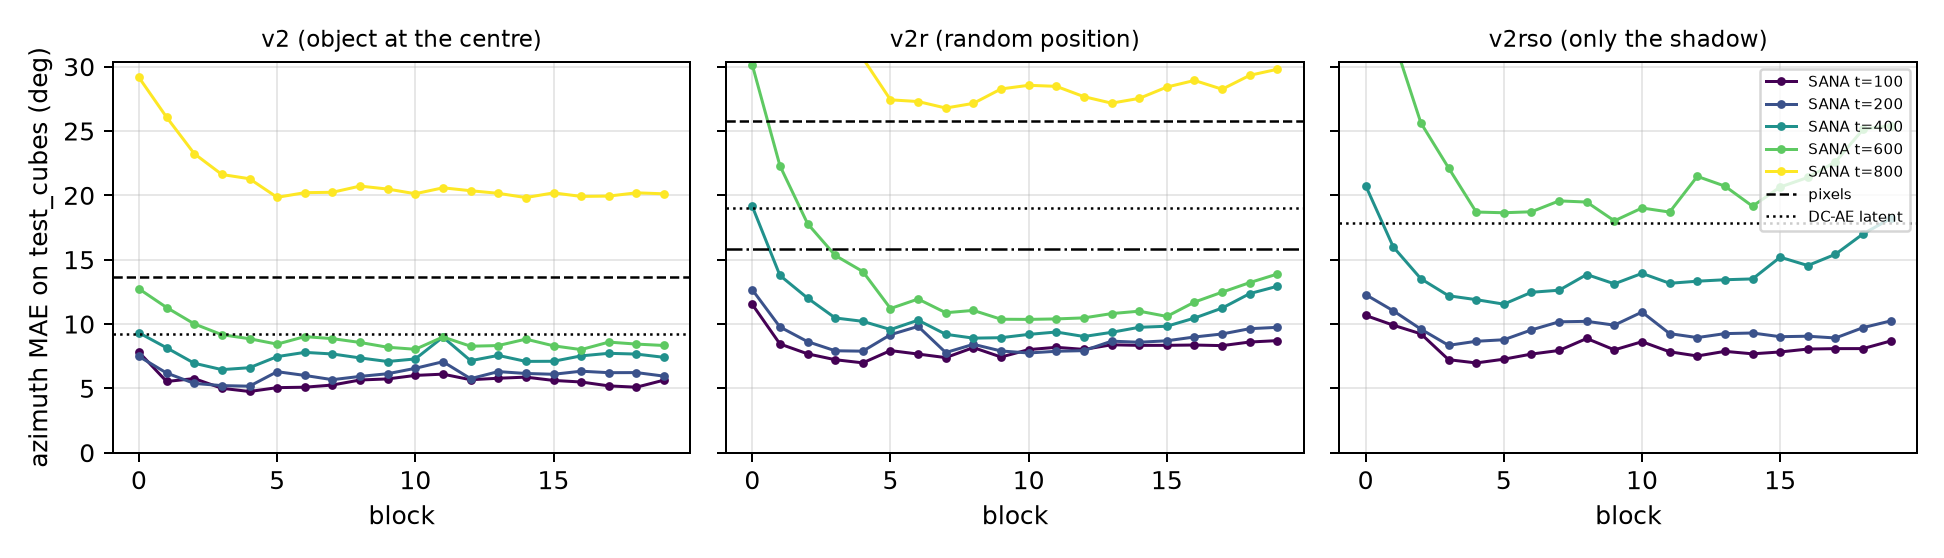
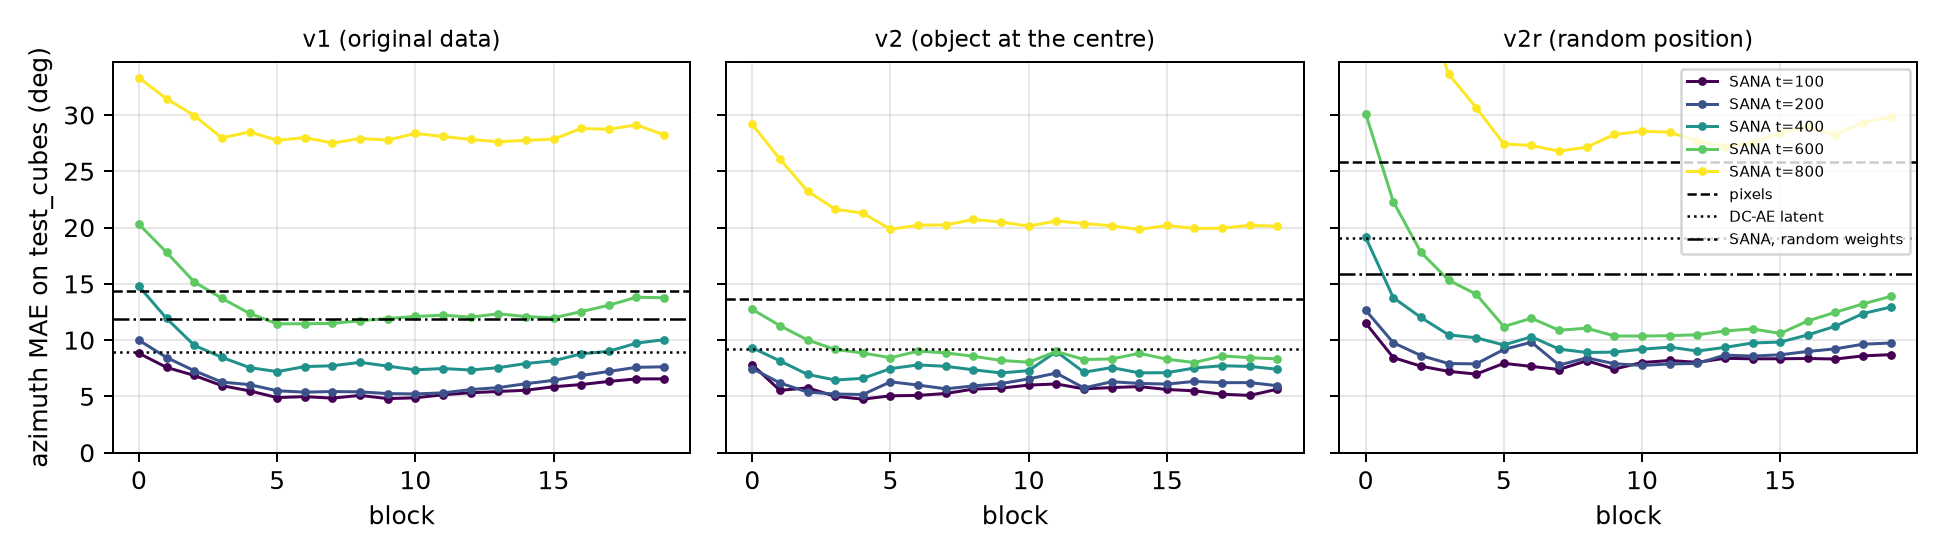
docs: rewrite the article with the final results and both measures of the output light

diff --git a/docs/article/main.tex b/docs/article/main.tex
@@ -15,7 +15,7 @@
 \newcommand{\pending}[1]{\textcolor{red}{[pending: #1]}}
 \newcommand{\degr}{^\circ}
 
-\title{Do Linear Probes Show That a Diffusion Transformer Knows the Light Direction? An Audit with Controls}
+\title{What Does a Diffusion Transformer Know about the Light Direction? An Audit of a Probe Study, with Controls and Interventions}
 
 \author{\name Anonymous Authors \email anonymous@example.com}
 
@@ -28,16 +28,15 @@
 
 \begin{abstract}
 Linear probes on the activations of generative models often serve as evidence that these models represent the 3D structure of a scene.
-We examine this evidence for one simple property, the direction of the light, in the text-to-image diffusion transformer SANA-1.6B.
-A first study with controlled Blender renders reported that a Ridge probe on transformer activations predicts the light azimuth with a mean absolute error (MAE) of $14\degr$, also on an object shape that the probe did not see in training.
-We audit this pipeline and find four problems.
-First, the same probe on raw $64\times64$ pixels gives the same error ($14.1\degr$ against $14.0\degr$).
-Second, the noise injection called a library function before its schedule was ready; for $t=200$ the transformer received $-24.5\,x_0 + 25.5\,\epsilon$ instead of $0.8\,x_0 + 0.2\,\epsilon$.
-Third, the label described the lamp position around the scene centre, which differs from the light direction at the object by $35\degr$ on average.
-Fourth, a large floor highlight under the lamp gives a cue that does not depend on the object.
-Probes on image regions show where the information is: the floor alone, without the object, predicts the label on cubes with an MAE of $9.4\degr$, better than the full image ($14.3\degr$), while the object alone fails on cubes ($44.3\degr$).
-We release an exact re-implementation of the render geometry, a corrected extraction pipeline, unit tests, and a fix for the library pitfall, which affects four schedulers.
-We close with a checklist for probe studies of generative models and with the plan for causal tests.
+We examine this evidence for one property, the light direction, in the text-to-image diffusion transformer SANA-1.6B.
+A first study reported that a probe predicts the light azimuth with a mean absolute error (MAE) of $14\degr$ on an unseen shape.
+Our audit finds four problems: the same probe on pixels is equally good; the noise injection called a library function before its schedule was ready, which gave the model inputs with 35 times the expected norm; the label was the lamp position and not the light at the object; and a floor highlight gave a 2D shortcut.
+With a corrected pipeline, the same data give $4.8\degr$, so the wrong noise hid the information.
+On new renders with one directional light and a random object position, where a linear read-out of the pixels fails, SANA gives $7.6\degr$ on unseen cubes, against $20.1\degr$ for the best pixel probe, $19.0\degr$ for the latent of the autoencoder and $15.9\degr$ for the same network with random weights; SD~1.5 and SDXL show the same effect.
+The code does not depend on the position: a probe on the mean of all tokens, fitted on centred objects, still gives $9.0\degr$ on objects at random positions.
+Interventions show that the model uses a direction of its activations: a small shift along the activation pattern of the light turns the shading of the object by $60\degr$ to $65\degr$ towards a target of $90\degr$, while a random shift of the same size does nothing.
+The cast shadow, however, follows only a three times larger shift, and a patch of the object tokens from a scene with another light changes the shading but not the shadow.
+We give a checklist for probe studies of generative models and release the code, the data and a fix for the library pitfall.
 \end{abstract}
 
 \section{Introduction}
@@ -57,12 +56,14 @@ It reported that a Ridge probe on block~10 at timestep $t=200$ predicts the lamp
 The study concluded that SANA encodes the light direction as a physical property of the scene.
 
 We re-examine every step of this pipeline: the render geometry, the labels, the noise injection, the probe fit and the figures.
+Then we ask the question again with corrected tools and new data.
 Our contributions are:
 \begin{enumerate}
-    \item An audit that finds four problems that each can explain the result without 3D knowledge (Section~\ref{sec:audit}).
-    \item Control probes on pixels and on image regions, which show that the floor of the image carries the information (Section~\ref{sec:controls}).
-    \item Tools: an exact model of the render geometry (to $0.56$~px), a corrected extraction pipeline with unit tests, and a fix with tests for a pitfall in the noise schedulers of a popular diffusion library (Section~\ref{sec:pipeline}).
-    \item A checklist for probe studies of generative models, and a pre-registered plan for causal tests with concept erasure and steering (Section~\ref{sec:discussion}).
+    \item An audit that finds four problems that each can explain the original result without 3D knowledge (Section~\ref{sec:audit}), and controls on the original data that show that the floor carries the information (Section~\ref{sec:controls}).
+    \item A corrected pipeline (Section~\ref{sec:pipeline}). On the original data it gives $4.8\degr$ on cubes instead of $14.5\degr$: the wrong noise, not the model, limited the original probe.
+    \item New data sets that remove the shortcuts and separate the cues (Section~\ref{sec:clean}), and probes with four controls on three diffusion models (Section~\ref{sec:rq1}). The light direction is linearly readable far beyond the input, from the shading and from the cast shadow, and with a code that does not depend on the position.
+    \item Interventions during generation with two independent measures of the output light (Section~\ref{sec:causal}). A shift along the activation pattern of the light changes the shading of the object; the cast shadow follows only larger shifts and does not come from the object tokens alone.
+    \item A checklist for probe studies of generative models (Section~\ref{sec:discussion}), an exact model of the render geometry, and a fix with tests for a pitfall in the noise schedulers of a popular diffusion library.
 \end{enumerate}
 
 \section{Related work}
@@ -250,7 +251,14 @@ The original noise rule gives inputs with 35 times the expected norm, which over
 \paragraph{Controls.}
 Each data set has the same probe on: the input pixels ($64\times64$); the DC-AE latent; SANA-1.6B with random weights \citep{adebayo2018sanity}; and, for generality, the UNets of Stable Diffusion 1.5 and SDXL with the noise rule of their own schedules.
 
-\pending{E0 on v1: probe sweep over 20 blocks and 5 timesteps with all controls; the original noise rule against the flow rule.}
+\paragraph{The original data with the corrected pipeline.}
+We repeat the original experiment on the same 3000 images and splits (Table~\ref{tab:rq1}, rows v1).
+With the original noise rule, the best SANA probe on the validation split (block~18, $t=200$) gives $12.4\degr$ on spheres and cylinders and $14.5\degr$ on cubes.
+This reproduces the original result ($14.0\degr$ on cubes), and it is $1.7\degr$ worse than the best pixel grid ($16\times16$: $9.6\degr$ and $12.8\degr$).
+With the flow rule, the best SANA probe (block~7, $t=100$) gives $4.1\degr$ and $4.8\degr$, which is $8.0\degr$ better than the pixels on cubes (95\% interval $[7.1, 8.9]$).
+The DC-AE latent gives $7.3\degr$ and $8.9\degr$, and SANA with random weights gives $11.5\degr$ and $11.9\degr$.
+Thus the original study did not fail because SANA lacks the information: the wrong noise hid it.
+The v1 images still have the floor highlight, so this result alone does not show a representation of the light at the object.
 
 \section{Clean data: one directional light and a controlled position}
 \label{sec:clean}
@@ -318,7 +326,8 @@ Table~\ref{tab:rq1} compares each source with the best pixel grid on the same te
 
 \paragraph{With a random position, diffusion features are much better than the input.}
 On v2r the SANA probe (block 5, $t=100$, $2\times2$ grid) has an azimuth MAE of $5.4\degr$ on spheres and cylinders and $7.6\degr$ on cubes.
-The DC-AE latent gives $18.8\degr$ and $19.0\degr$, and $64\times64$ pixels give $25.1\degr$ and $25.8\degr$.
+The best pixel grid ($8\times8$) gives $21.5\degr$ and $20.1\degr$, so SANA is better by $12.5\degr$ on cubes (95\% interval $[11.1, 13.8]$).
+The DC-AE latent gives $18.8\degr$ and $19.0\degr$.
 SD~1.5 ($7.5\degr$, $11.1\degr$) and SDXL ($5.9\degr$, $7.3\degr$) show the same effect, so it is not specific to one model.
 The SANA transformer with random weights is better than the latent at a low noise level ($11.9\degr$, $15.9\degr$), because random nonlinear features of the latent already help a linear probe.
 The trained model reduces this error by about half.
@@ -327,7 +336,7 @@ Figure~\ref{fig:scan} shows that the best blocks are early and middle blocks (4 
 \begin{figure}[t]
 \centering
 \includegraphics[width=\linewidth]{figures/scan.png}
-\caption{Azimuth MAE on the cubes for the SANA probe on each block ($4\times4$ grid), one line for each timestep. Horizontal lines: the controls at their selected settings.}
+\caption{Azimuth MAE on the cubes for the SANA probe on each block ($4\times4$ grid), one line for each timestep. Horizontal lines: the probe on $64\times64$ pixels and on the DC-AE latent. The third line is SANA with random weights, at its best setting on the validation split.}
 \label{fig:scan}
 \end{figure}
 
@@ -343,10 +352,14 @@ Thus the model has a direction code that is the same at every place in the image
 Without the cast shadow (v2rns), the SANA probe gives $6.9\degr$ and $9.9\degr$; the best pixel grid gives $24.6\degr$ and $23.3\degr$.
 With only the shadow (v2rso), SANA gives $5.9\degr$ and $7.9\degr$, against $24.6\degr$ and $16.9\degr$ for the pixels.
 So the model encodes the light from the shading of the object and from the cast shadow, each one alone.
-\pending{transfer between the cue variants}
+A probe fitted on v2r, where both cues are present, partly transfers to the scenes with one cue: SANA gives $33.3\degr$ without the shadow and $30.2\degr$ with only the shadow (pixels: $72.7\degr$ and $74.6\degr$).
+The two cues therefore share part of their code in the features, but not all of it.
 
 \paragraph{Where the probe reads.}
-The exact decomposition of the linear probe over the $8\times8$ cells (Section~\ref{sec:geometry} gives the object and shadow cells) shows that the SANA probe on v2r gives the object cells \pending{x}\% of its weight and the shadow cells \pending{y}\%, against an area share of \pending{a}\% and \pending{b}\%.
+The exact decomposition of the linear probe over the $8\times8$ cells gives the share of each cell in the output; the scene geometry gives the cells of the object and of its cast shadow.
+On v2r the SANA probe (block~10, $t=100$) gives $20\%$ of its weight to the object cells and $5.4\%$ to the shadow cells, against an area share of $14.5\%$ and $3.7\%$.
+The pixel probe on an $8\times8$ grid has almost the same shares ($19.6\%$ and $5.3\%$).
+So the maps do not separate the models: both probes give the object and the shadow about 1.4 times their area share and spread the rest over the floor.
 On v2rso, where the object is not visible, the cells of the hidden object still get $25\%$ of the weight (area $15\%$).
 These cells also hold the start of the shadow, so this does not show that the model represents the hidden object.
 
@@ -359,7 +372,11 @@ All three start from a render of v2.
 We encode the render, add flow noise up to $\sigma_0=0.7$, and integrate the flow back to $\sigma=0$ in 20 Euler steps, $x_{\sigma'}=x_\sigma+(\sigma'-\sigma)\,v_\theta(x_\sigma,\sigma)$ \citep{meng2022sdedit}.
 Without an intervention, this gives a close copy of the render (the base output).
 A forward hook on one transformer block changes its output at every step.
-A pixel probe, fitted on the v2 renders, measures the azimuth of each output, and we report the signed rotation against the base output of the same image and noise.
+We report the signed rotation of the output light against the base output of the same image and noise, with two measures.
+\begin{itemize}
+    \item The pixel probe, fitted on the v2 renders, reads the azimuth from the whole image. On v2 it gives $59\%$ of its weight to the object cells, so it mostly reads the shading of the object.
+    \item The shadow measure uses no fitted model. It takes the floor pixels that are darker than the floor median, computes their darkness-weighted centroid, and turns the image vector from the object base to this centroid into a ground azimuth with the camera model. On the v2 renders its median error is $6.4\degr$ ($10.3\degr$ on cubes); it fails on short shadows under a high light, so we report medians.
+\end{itemize}
 
 \paragraph{Shift along a direction.}
 The probe of block $b$ is linear in the cell features: $\hat{\mathbf y}=W h+c$.
@@ -391,72 +408,110 @@ In a transformer without skip connections, a patch of all tokens at all steps ma
 \paragraph{Results of the shift and the erasure.}
 Table~\ref{tab:causal} and Figure~\ref{fig:causal} give the results for 60 test images of v2 and three blocks.
 The probes come from the $8\times8$ features at $t=400$ (test MAE $4.4\degr$ to $4.6\degr$).
-The base output keeps the light of the render (azimuth MAE $7.6\degr$ against the label).
+The base output keeps the light of the render (pixel probe MAE $7.6\degr$ against the label).
 \begin{itemize}
-    \item The pattern direction turns the light of the output. With the natural size ($\times1$), the measured azimuth turns by $+60\degr$ (block~10), $+65\degr$ (block~4) and $+62\degr$ (block~18) towards the target of $+90\degr$, and $73\%$ to $82\%$ of the images end within $45\degr$ of the target.
-    This change has a mean cell norm of only $2\%$ of the mean token norm, and the mean pixel change is $4$ grey levels.
-    With $\times3$ the rotation is about $+120\degr$, so the effect grows with the dose; at this size the images show artefacts.
-    \item A random vector with the same norm in each cell does nothing ($-1.5\degr$ to $-0.2\degr$).
-    \item The shortest change along the probe weights, which moves the probe output exactly to $+90\degr$, turns the output by only $+23\degr$ to $+41\degr$. The same direction with the size of the token norm destroys the image in blocks 4 and 10 (mean pixel change above 130 grey levels).
-    \item The LEACE eraser in one block has no effect on the output light (rotation $-0.2\degr$ to $+0.2\degr$, MAE against the label $7.7\degr$ to $7.9\degr$).
+    \item The pattern direction changes the light of the output, but the two measures disagree at the natural size ($\times1$). The pixel probe turns by $+60\degr$ to $+65\degr$ towards the target of $+90\degr$, while the median rotation of the cast shadow is only $+5\degr$ to $+7\degr$. This change has a mean cell norm of $2\%$ of the mean token norm, and the mean pixel change is $4$ grey levels: the model changes the shading of the object and keeps the cast shadow.
+    \item With $\times3$ both measures move: the pixel probe by about $+120\degr$ and the cast shadow by $+92\degr$ to $+109\degr$ (median). At this size the images show dark artefacts on the floor (mean pixel change $13$).
+    \item A random vector with the same norm in each cell does nothing (both measures within $\pm2\degr$).
+    \item The shortest change along the probe weights turns the pixel probe by $+23\degr$ to $+41\degr$ and the cast shadow by $+1\degr$ to $+4\degr$. The same direction at the size of the token norm destroys the image in blocks 4 and 10 (mean pixel change above 100); the readings of these outputs have no meaning.
+    \item The LEACE eraser in one block has no effect on either measure (rotation $0\degr$; pixel probe MAE against the label $7.7\degr$ to $7.9\degr$).
 \end{itemize}
-Thus the model uses the direction of the activation pattern: a small change along it moves the shadow, and a random change of the same size does not.
-The probe weights are a worse handle, as \citet{haufe2014interpretation} predict for a regression with correlated noise.
-The erasure result does not show that the information is unused: the noisy input at $\sigma_0=0.7$ still shows the shadow, and later blocks can read the light again from it.
-\pending{rotation from the shadow region (second measure)}
+Thus the pattern direction is a causal handle on the light of the output, and the probe weights are a worse one, as \citet{haufe2014interpretation} predict for a regression with correlated noise.
+But a small step along the pattern changes the shading of the object, not the cast shadow; the cast shadow follows only a large step, with artefacts.
+The erasure result does not show that the information is unused: the noisy input at $\sigma_0=0.7$ still shows the shadow and the shading, and later blocks can read the light again from them.
+\pending{causal test with more noise ($\sigma_0=0.85$ and $0.95$)}
 
 \begin{table}[t]
 \centering
-\caption{Rotation of the output light (degrees, mean and 95\% interval over 60 images of v2) against the base output, for a target of $+90\degr$, measured by the pixel probe. Pixel change: mean absolute difference to the base output (grey levels).}
+\caption{Rotation of the output light (degrees) against the base output for a target of $+90\degr$, 60 images of v2. Probe: the pixel probe (mean and 95\% interval). Shadow: the median rotation of the dark shadow region. Pixels: mean absolute change against the base output (grey levels), mean over the blocks. The two \texttt{probe\_r1} and \texttt{random\_probe} rows destroy the image in blocks 4 and 10, so their readings there have no meaning.}
 \label{tab:causal}
-\input{tables/causal.tex}
+\resizebox{\linewidth}{!}{\input{tables/causal.tex}}
 \end{table}
 
 \begin{figure}[t]
 \centering
 \includegraphics[width=\linewidth]{figures/causal.png}
-\caption{Rotation of the output light for each condition and block. The dotted line is the target ($+90\degr$).}
+\caption{Rotation of the output light (pixel probe) for each condition and block. The dotted line is the target ($+90\degr$).}
 \label{fig:causal}
 \end{figure}
 
-\pending{results of the patch test}
+\paragraph{Results of the patch test.}
+Figure~\ref{fig:patch} gives the share of the $90\degr$ light change that each patch moves into the output, for 48 pairs.
+The full source pass moves $1.01$ of the change by the pixel probe and $0.91$ by the shadow measure (median).
+A patch of all tokens of block~10 moves $0.73$ and $0.80$.
+A patch of the object tokens, about $10\%$ of the image, moves $0.57$ to $0.63$ by the pixel probe in every block from 0 to 18, but only $0.08$ to $0.15$ by the shadow measure.
+So the object tokens carry the shading of the object, which the pixel probe reads, but not the direction of the cast shadow.
+A patch of the tokens where the source shadow lies moves $0.22$ to $0.26$ of the shadow (median) and $0.12$ by the pixel probe: it copies part of the source shadow to its place.
+The other floor tokens move nothing.
+The sum of the three regions ($\approx0.4$) is far below the patch of all tokens ($0.80$), so the cast shadow does not come from one region of the image: the model draws it from information that is spread over the object, the shadow and their surroundings.
+In block~10, the first half of the steps moves more than the second half (object tokens: $0.39$ against $0.23$ by the pixel probe).
+
+\begin{figure}[t]
+\centering
+\includegraphics[width=\linewidth]{figures/patch.png}
+\caption{Share of the light change from the source scene ($+90\degr$) that a patch of one region in one block moves into the output, 48 pairs. Left: pixel probe (mostly the shading of the object). Right: the dark shadow region (median). Lines: the full source pass and a patch of all tokens in block~10.}
+\label{fig:patch}
+\end{figure}
 
 \section{Discussion}
 \label{sec:discussion}
 
 \paragraph{What the original result shows.}
 The original probe reads the lamp position, and pixels give the same accuracy.
-The floor highlight and the shadow are visible in 2D and do not depend on the object shape, which explains the transfer to cubes.
-Therefore, the result does not show that SANA represents the light direction as a 3D property.
-It also does not show the opposite: the corrected extraction and the controls in Section~\ref{sec:pipeline} must decide whether SANA adds information that the input does not make linearly available.
+The floor highlight is visible in 2D and does not depend on the object shape, which explains the transfer to cubes.
+The original result therefore does not show that SANA represents the light direction.
+It also does not show the opposite: with the flow noise, the same probe on the same data is much better than the pixels (Section~\ref{sec:pipeline}).
+The noise pitfall hid the information; the shortcut made the pixels look as good as the model.
+
+\paragraph{What the new results show.}
+On scenes where the position of the object changes, a linear probe on the pixels cannot find the light, but a linear probe on the activations of three diffusion models can.
+The code survives the mean over all tokens and transfers from centred objects to random positions, so it does not depend on where the object stands in the image.
+The model reads the light from the shading of the object and from the cast shadow, each one alone.
+A network with the same architecture and random weights also beats the pixels at a low noise level, so part of the effect comes from the architecture; training halves the remaining error.
+The model also uses a direction of its activations: a small shift along the activation pattern of the light changes the light of the output, and a random shift does not.
+This change appears first in the shading of the object.
+The cast shadow, which needs the 3D relation between light, object and floor, moves only with a larger shift, and a patch of a single region does not move it.
+We read this as a code of the light that controls the appearance of the lit object directly, while the shadow comes from information that is spread over the image.
+The data do not show whether the model uses one code for both, or a second code for the shadow that our linear handles do not reach.
+
+\paragraph{Probes and their measures.}
+Two results warn against simple measures.
+The probe weights are a poor steering handle: the shortest change that moves the probe output to the target moves the image by less than half of it, while the activation pattern works \citep{haufe2014interpretation}.
+And a measure of the output light that reads the whole image can report a full rotation when only the shading turns.
+A claim that a model ``moves the shadow'' needs a measure of the shadow.
 
 \paragraph{A checklist for probe studies of generative models.}
 \begin{enumerate}
-    \item Compare every probe with the same probe on the input pixels and on the latent of the autoencoder.
+    \item Compare every probe with the same probe on the input pixels (at several resolutions) and on the latent of the autoencoder.
     \item Compare with the same architecture with random weights.
     \item Check the noise that the model receives: fit $x_t=a\,x_0+b\,\epsilon$ and compare with the schedule of the model.
     \item Define the label at the place of the effect (here, the light at the object), and store all scene parameters (camera, all lamps).
-    \item Remove or randomize shortcut cues (floor highlights, constant extra lights) before a claim about 3D knowledge, and test cue-conflict images.
-    \item Vary the object position. With a fixed position, a linear probe reads the image location of the shadow, and the pixel control is almost perfect.
-    \item Select hyperparameters on validation data only, and report intervals.
-    \item Test causal use, for example with concept erasure \citep{belrose2023leace} and with steering along the probe direction \citep{chen2023beyond}.
+    \item Remove or randomize shortcut cues (floor highlights, constant extra lights), vary the object position, and separate the cues with paired renders.
+    \item Select the layer, the timestep and all hyperparameters on validation data only, and report intervals and paired comparisons.
+    \item Test causal use. Steer along the activation pattern, not only along the probe weights, and compare with a random change of the same size.
+    \item Measure the effect of an intervention with at least two independent measures, one of them specific to the cue in question.
     \item Check figures against the true geometry.
 \end{enumerate}
 
-
 \section{Limitations}
-One model, one property and synthetic scenes limit the scope of this study.
-The controls in Section~\ref{sec:controls} use the original dataset, which has the shortcut cues that we describe.
-The results of the corrected extraction need GPU time and are not part of this draft.
+The study uses one property, simple synthetic scenes with one object, and the empty prompt.
+All interventions start from a render (SDEdit); at $\sigma_0=0.7$ the noisy input still shows the original shadow, which can resist a change.
+The shifts act in one block at a time and use directions from the features at $t=400$, while the probes read best at $t=100$.
+The pixel probe on the outputs mostly reads the shading of the object, and the shadow measure is a heuristic with large errors on short shadows; we therefore report medians and both measures.
+The causal test uses 60 images and the patch test 48 pairs.
+The features are average-pooled, so the probes cannot see fine structure inside a cell.
+All runs use float16 on T4 GPUs; float32 gives the same features on a test set (relative difference $0.1\%$).
 
 \section{Conclusion}
 A probe that reads a scene property from a generative model is a starting point, not evidence of 3D knowledge.
-In the case that we studied, input baselines, exact labels and a check of the noise schedule change the conclusion.
+In the case that we studied, the first probe result was right for the wrong reasons: the shortcut made the pixels as good as the model, and a noise pitfall made the model look no better than the pixels.
+With correct noise, controlled data and controls, SANA and two other diffusion models carry the light direction in a form that the input does not offer, and SANA uses it to light the object.
+Whether the model also draws the cast shadow from this code is a question that a measure of the whole image cannot answer, and our shadow measure shows that it does so only for large changes.
 We release the tools so that other studies can run the same checks.
 
 \paragraph{Reproducibility.}
-The code, the configurations, the audit tables and the unit tests are in the supplementary material.
-The geometry model reproduces the scene files to $0.56$~px, and every number in this draft comes from a script in the repository.
+The code, the job specifications, the result tables and the unit tests are in the supplementary material.
+Every number in this paper comes from a script in the repository; the GPU and CPU jobs ran on Kaggle, and their specifications record the commit of each run.
 
 \bibliography{references}
 \bibliographystyle{tmlr}

diff --git a/scripts/experiments/result_figures.py b/scripts/experiments/result_figures.py
@@ -123,20 +123,30 @@ def causal_figure(reports: Path, out: Path) -> None:
     print(f"-> {out}")
 
 
-def causal_table(reports: Path, out: Path) -> None:
-    """Write a LaTeX table: one row for each condition, one column pair for each block."""
-    files = sorted((reports / "causal").glob("b*/results.csv"))
+def signed(v: float) -> str:
+    """Format a rotation with its sign; a value that rounds to zero is 0."""
+    r = round(float(v))
+    return "0" if r == 0 else f"{r:+d}"
+
+
+def causal_table(reports: Path, out: Path, folder: str = "causal") -> None:
+    """Write a LaTeX table: one row for each condition, two measures for each block.
+
+    The first measure is the pixel probe (mean rotation with a 95% interval). The
+    second is the dark shadow region (median rotation over the images).
+    """
+    files = sorted((reports / folder).glob("b*/results.csv"))
     if not files:
         return
-    blocks = [int(f.parent.name[1:]) for f in files]
+    blocks = [int(f.parent.name[1:3]) for f in files]
     frames = {b: pd.read_csv(f).set_index("condition") for b, f in zip(blocks, files, strict=True)}
     order = sorted(blocks)
     conds = [c for c in frames[order[0]].index if c != "base"]
     lines = [
-        "\\begin{tabular}{l" + "rr" * len(order) + "}",
+        "\\begin{tabular}{l" + "rr" * len(order) + "r}",
         "\\toprule",
-        " & " + " & ".join(f"\\multicolumn{{2}}{{c}}{{Block {b}}}" for b in order) + " \\\\",
-        "Condition" + " & rotation & pixels" * len(order) + " \\\\",
+        " & " + " & ".join(f"\\multicolumn{{2}}{{c}}{{Block {b}}}" for b in order) + " & \\\\",
+        "Condition" + " & probe & shadow" * len(order) + " & pixels \\\\",
         "\\midrule",
     ]
     for c in conds:
@@ -144,10 +154,12 @@ def causal_table(reports: Path, out: Path) -> None:
         for b in order:
             r = frames[b].loc[c]
             lo, hi = (float(v) for v in str(r["rotation_ci"]).strip("()").split(","))
-            cells.append(f"${r['rotation_mean']:+.0f}$ \\scriptsize{{[{lo:+.0f}, {hi:+.0f}]}}")
-            cells.append(f"{r['pixel_change']:.0f}")
+            cells.append(f"${signed(r['rotation_mean'])}$ \\scriptsize{{[{signed(lo)}, {signed(hi)}]}}")
+            sm = r.get("shadow_rotation_median", float("nan"))
+            cells.append("--" if pd.isna(sm) else f"${signed(sm)}$")
+        change = np.mean([frames[b].loc[c, "pixel_change"] for b in order])
         name = c.replace("shift:", "").replace("_", "\\_")
-        lines.append(f"{name} & " + " & ".join(cells) + " \\\\")
+        lines.append(f"{name} & " + " & ".join(cells) + f" & {change:.0f} \\\\")
     lines += ["\\bottomrule", "\\end{tabular}"]
     out.write_text("\n".join(lines) + "\n")
     print(f"-> {out}")
@@ -162,25 +174,29 @@ def patch_figure(reports: Path, out: Path) -> None:
     p = df[df["condition"].str.match(r"patch:b\d+_(object|shadow_src|floor)$")].copy()
     p["block"] = p["condition"].str.extract(r"b(\d+)_")[0].astype(int)
     p["region"] = p["condition"].str.extract(r"b\d+_(\w+)$")[0]
-    fig, ax = plt.subplots(figsize=(5.2, 3.0))
     names = {"object": "object tokens", "shadow_src": "source shadow tokens", "floor": "other floor tokens"}
-    for region, label in names.items():
-        g = p[p["region"] == region].sort_values("block")
-        ci = np.array([json.loads(str(c).replace("(", "[").replace(")", "]")) for c in g["fraction_ci"]])
-        ax.plot(g["block"], g["fraction_mean"], marker="o", ms=3, label=label)
-        ax.fill_between(g["block"], ci[:, 0], ci[:, 1], alpha=0.2)
-    for cond, style, label in (
-        ("source", "--", "full source pass"),
-        ("patch:b10_all", ":", "all tokens, block 10"),
-    ):
-        v = df[df["condition"] == cond]
-        if len(v):
-            ax.axhline(v["fraction_mean"].iloc[0], color="k", ls=style, lw=1, label=label)
-    ax.axhline(0, color="k", lw=0.8)
-    ax.set_xlabel("patched block")
-    ax.set_ylabel("rotation / 90 deg")
-    ax.legend(fontsize=7)
-    ax.grid(alpha=0.3)
+    measures = (
+        ("fraction_mean", "pixel probe (mean)"),
+        ("shadow_fraction_median", "cast shadow region (median)"),
+    )
+    fig, axes = plt.subplots(1, 2, figsize=(9.0, 3.0), sharey=True)
+    for ax, (col, title) in zip(axes, measures, strict=True):
+        for region, label in names.items():
+            g = p[p["region"] == region].sort_values("block")
+            ax.plot(g["block"], g[col], marker="o", ms=3, label=label)
+        for cond, style, label in (
+            ("source", "--", "full source pass"),
+            ("patch:b10_all", ":", "all tokens, block 10"),
+        ):
+            v = df[df["condition"] == cond]
+            if len(v):
+                ax.axhline(v[col].iloc[0], color="k", ls=style, lw=1, label=label)
+        ax.axhline(0, color="k", lw=0.8)
+        ax.set_title(title, fontsize=9)
+        ax.set_xlabel("patched block")
+        ax.grid(alpha=0.3)
+    axes[0].set_ylabel("rotation / 90 deg")
+    axes[1].legend(fontsize=7)
     fig.tight_layout()
     fig.savefig(out, dpi=180)
     print(f"-> {out}")

diff --git a/docs/article/tables/causal.tex b/docs/article/tables/causal.tex
@@ -1,14 +1,14 @@
-\begin{tabular}{lrrrrrr}
+\begin{tabular}{lrrrrrrr}
 \toprule
- & \multicolumn{2}{c}{Block 4} & \multicolumn{2}{c}{Block 10} & \multicolumn{2}{c}{Block 18} \\
-Condition & rotation & pixels & rotation & pixels & rotation & pixels \\
+ & \multicolumn{2}{c}{Block 4} & \multicolumn{2}{c}{Block 10} & \multicolumn{2}{c}{Block 18} & \\
+Condition & probe & shadow & probe & shadow & probe & shadow & pixels \\
 \midrule
-probe\_exact & $+41$ \scriptsize{[+36, +46]} & 2 & $+23$ \scriptsize{[+20, +26]} & 1 & $+40$ \scriptsize{[+36, +44]} & 2 \\
-probe\_r1 & $-4$ \scriptsize{[-30, +21]} & 148 & $-3$ \scriptsize{[-28, +21]} & 132 & $+84$ \scriptsize{[+80, +89]} & 40 \\
-random\_probe & $-3$ \scriptsize{[-26, +20]} & 157 & $-5$ \scriptsize{[-31, +21]} & 208 & $+14$ \scriptsize{[-3, +32]} & 49 \\
-pattern\_x1 & $+65$ \scriptsize{[+60, +71]} & 5 & $+60$ \scriptsize{[+55, +65]} & 4 & $+62$ \scriptsize{[+58, +68]} & 4 \\
-pattern\_x3 & $+121$ \scriptsize{[+117, +125]} & 13 & $+121$ \scriptsize{[+116, +125]} & 13 & $+120$ \scriptsize{[+115, +124]} & 13 \\
-random\_pattern & $-0$ \scriptsize{[-1, +1]} & 1 & $-0$ \scriptsize{[-3, +2]} & 3 & $-2$ \scriptsize{[-5, +1]} & 3 \\
-erase & $-0$ \scriptsize{[-1, +0]} & 2 & $-0$ \scriptsize{[-1, +0]} & 2 & $+0$ \scriptsize{[-1, +1]} & 2 \\
+probe\_exact & $+41$ \scriptsize{[+36, +46]} & $+4$ & $+23$ \scriptsize{[+20, +26]} & $+1$ & $+40$ \scriptsize{[+36, +44]} & $+2$ & 2 \\
+probe\_r1 & $-4$ \scriptsize{[-30, +21]} & $+83$ & $-3$ \scriptsize{[-28, +21]} & $+81$ & $+84$ \scriptsize{[+80, +89]} & $+46$ & 107 \\
+random\_probe & $-3$ \scriptsize{[-26, +20]} & $-22$ & $-5$ \scriptsize{[-31, +21]} & -- & $+14$ \scriptsize{[-3, +32]} & $-3$ & 138 \\
+pattern\_x1 & $+65$ \scriptsize{[+60, +71]} & $+7$ & $+60$ \scriptsize{[+55, +65]} & $+7$ & $+62$ \scriptsize{[+58, +68]} & $+5$ & 4 \\
+pattern\_x3 & $+121$ \scriptsize{[+117, +125]} & $+109$ & $+121$ \scriptsize{[+116, +125]} & $+107$ & $+120$ \scriptsize{[+115, +124]} & $+92$ & 13 \\
+random\_pattern & $0$ \scriptsize{[-1, +1]} & $0$ & $0$ \scriptsize{[-3, +2]} & $-1$ & $-2$ \scriptsize{[-5, +1]} & $0$ & 2 \\
+erase & $0$ \scriptsize{[-1, 0]} & $0$ & $0$ \scriptsize{[-1, 0]} & $0$ & $0$ \scriptsize{[-1, +1]} & $0$ & 2 \\
 \bottomrule
 \end{tabular}
